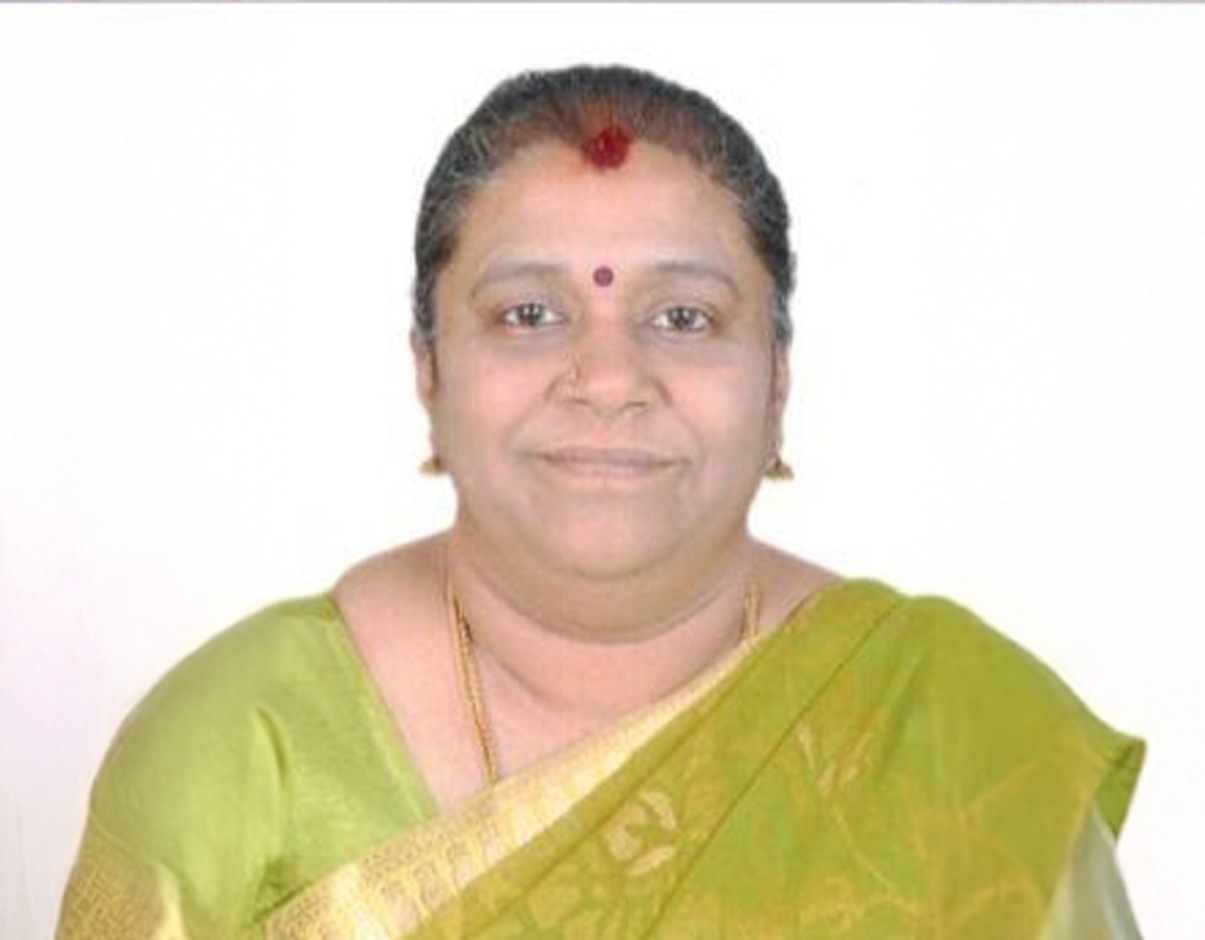
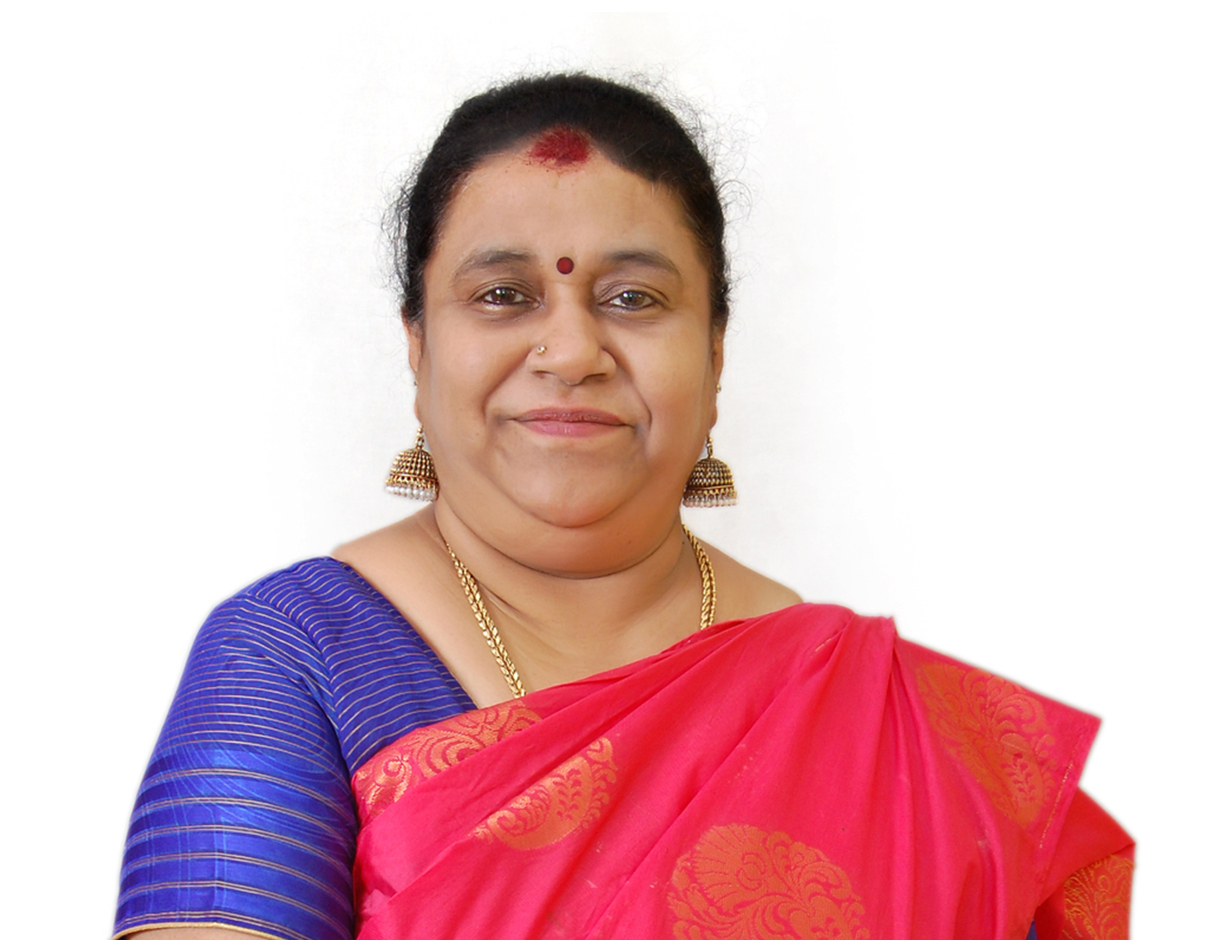
bugs changes

diff --git a/team.html b/team.html
@@ -58,7 +58,7 @@
 
 <body>
     <div id="app" class="d-flex flex-column min-vh-100">
-              <header>
+        <header>
             <!-- Top nav for desktop -->
             <div class="d-sm-block d-none">
                 <nav class="navbar topNav t_nav navbar-expand-md bg-faded justify-content-center">
@@ -116,7 +116,10 @@
                                     </a>
                                     <ul class="dropdown-menu" aria-labelledby="resourcesDropdown">
                                         <!-- Newsletter Section -->
-                                        <li><a class="dropdown-item" href="newsletter.html">Newsletter</a></li>
+                                        <li><a class="dropdown-item download-link"
+                                                href="assets/pdf/Nov-2025_Newsletter-1.pdf" target="_blank"
+                                                download="Nov-2025_Newsletter-1.pdf">Newsletter</a></li>
+                                        <li>
                                         <li>
                                             <hr class="dropdown-divider">
                                         </li>
@@ -296,21 +299,21 @@
                                 </li>
                             </ul>
                             <div class="mobile-bottom-section">
-                            <!-- Mobile Login Dropdown -->
-                            <div class="mobile-login-container">
-                                <a href="javascript:void(0)" class="mobile-login-toggle">
-                                    Login <i class="fas fa-chevron-down login-dropdown-icon"></i>
-                                </a>
-                                <div class="mobile-login-dropdown">
-                                    <a href="https://pms.harmoneywealth.in/shrdbms/userlogin.ss"
-                                        class="mobile-login-item">PMS Login</a>
-                                    <a href="https://harmoneywealth.themfbox.com/" class="mobile-login-item">MFD
-                                        Login</a>
+                                <!-- Mobile Login Dropdown -->
+                                <div class="mobile-login-container">
+                                    <a href="javascript:void(0)" class="mobile-login-toggle">
+                                        Login <i class="fas fa-chevron-down login-dropdown-icon"></i>
+                                    </a>
+                                    <div class="mobile-login-dropdown">
+                                        <a href="https://pms.harmoneywealth.in/shrdbms/userlogin.ss"
+                                            class="mobile-login-item">PMS Login</a>
+                                        <a href="https://harmoneywealth.themfbox.com/" class="mobile-login-item">MFD
+                                            Login</a>
+                                    </div>
                                 </div>
                             </div>
-                        </div>
                         </nav>
-                        
+
                     </section>
                     <div id="overlay" class="overlayy"></div>
                 </div>
@@ -326,7 +329,7 @@
                 <div class="row align-items-center">
                     <div class="col-lg-6">
                         <h1>Meet the Team</h1>
-                        <p class="hero-subtitle">Meet our People</p>
+
                         <div class="hero-content">
                             <p>M/s Harmoney FinServ India Private Limited Formerly Harmoney Wealth Advisory
                                 Services India (P) Ltd., is promoted by passionate professionals having an experience of
@@ -394,14 +397,16 @@
                                     guided by the belief that pursuing one's passion leads to a fulfilling life. A
                                     <strong>knowledgeable</strong> professional with a wide-ranging expertise, he is
                                     <strong>determined</strong> and <strong>resilient</strong> in constantly striving to
-                                    reach greater heights both professionally and personally.</p>
+                                    reach greater heights both professionally and personally.
+                                </p>
                                 <p>With a calm and composed demeanor, he exudes <strong>confidence</strong> and
                                     <strong>dedication</strong>, inspiring those around him to aspire for greatness. His
                                     commitment to clients and family is unwavering, embodying a
                                     <strong>relentless</strong> pursuit of excellence. An <strong>encouraging</strong>
                                     and <strong>supportive</strong> leader, he knows just how to uplift others and
                                     foster growth and success with his <strong>insightful</strong> and
-                                    <strong>adaptable</strong> approach.</p>
+                                    <strong>adaptable</strong> approach.
+                                </p>
                             </div>
                             <div class="member-expertise">
                                 <span class="expertise-tag">Leadership</span>
@@ -436,9 +441,8 @@
                                     <strong>affectionate</strong> determination. Her <strong>supportive</strong> and
                                     <strong>reliable</strong> nature combines with <strong>altruistic</strong> values,
                                     as she remains <strong>eager to learn</strong> and grow with each new experience.
-                                    Currently pursuing her masters in law, she exemplifies that there's no limit to age
-                                    or passion through her <strong>determined</strong> and <strong>passionate</strong>
-                                    journey.</p>
+                                    She exemplifies that there's no limit to age or passion through her
+                                    <strong>determined</strong> and <strong>passionate</strong> journey.</p>
                             </div>
                             <div class="member-expertise">
                                 <span class="expertise-tag">Compliance</span>
@@ -861,7 +865,7 @@
                                     <ul>
                                         <li><a href="privacy-policy.html">Privacy Policy</a></li>
                                         <li><a href="compliance.html">Compliance</a></li>
-                                        
+
                                     </ul>
                                 </div>
 
@@ -910,20 +914,20 @@
                                                 target="_blank"
                                                 style="display: flex; align-items: center; gap: 10px; padding: 10px 0;justify-content: space-around;">
                                                 <img src="assets/images/footer-googleplay.svg" alt="Google Play"
-                                                   style="width: 150px; height: 60px;">
+                                                    style="width: 150px; height: 60px;">
                                                 <div>
-                                                   <div style="font-size: 12px; color: #000;">GET IT ON</div>
+                                                    <div style="font-size: 12px; color: #000;">GET IT ON</div>
                                                     <div style="font-weight: bold; color: #000;">Google Play</div>
                                                 </div>
                                             </a>
                                         </li>
                                         <li>
                                             <!-- iOS/App Store -->
-                                             <a href="https://apps.apple.com/in/app/harmoney/id6751745585"
+                                            <a href="https://apps.apple.com/in/app/harmoney/id6751745585"
                                                 target="_blank"
                                                 style="display: flex; align-items: center; gap: 10px; padding: 10px 0;justify-content: space-around;">
                                                 <img src="assets/images/footer-appstore.svg" alt="App Store"
-                                                   style="width: 150px; height: 60px;">
+                                                    style="width: 150px; height: 60px;">
                                                 <div>
                                                     <div style="font-size: 12px; color: #000;">Download on the</div>
                                                     <div style="font-weight: bold; color: #000;">App Store</div>
@@ -938,14 +942,14 @@
                                     <a href="#" class="social-icon" data-tooltip="Linkedin">
                                         <i class="fab fa-linkedin-in"></i>
                                     </a>
-                                    
+
                                 </div>
 
                                 <!-- Mutual Fund Disclaimer -->
                                 <div class="mt-3"
                                     style="background: rgba(59, 130, 246, 0.1); padding: 15px; border-radius: 8px; font-size: 11px; line-height: 1.4; color: #000;">
                                     <p style="margin-bottom: 8px;">
-                                         Mutual Fund Investments are subject to market
+                                        Mutual Fund Investments are subject to market
                                         risks. Please read the scheme information and offer documents before investing.
                                         Past performance is not indicative of future results.
                                     </p>

diff --git a/what-we-do.html b/what-we-do.html
@@ -116,7 +116,10 @@
                                     </a>
                                     <ul class="dropdown-menu" aria-labelledby="resourcesDropdown">
                                         <!-- Newsletter Section -->
-                                        <li><a class="dropdown-item" href="newsletter.html">Newsletter</a></li>
+                                        <li><a class="dropdown-item download-link"
+                                                href="assets/pdf/Nov-2025_Newsletter-1.pdf" target="_blank"
+                                                download="Nov-2025_Newsletter-1.pdf">Newsletter</a></li>
+                                        <li>
                                         <li>
                                             <hr class="dropdown-divider">
                                         </li>
@@ -330,7 +333,7 @@
                         <p class="hero-description">With the variety of investment options available today, we at
                             Harmoney provide you services that meets your financial needs. Nearly every investment
                             entails special risks and given that every investment goals are unique, we at Harmoney help
-                            you find the right Strategy ( MF / Direct Equity / Real Estate / PMS) to match your needs.
+                            you find the right asset allocation Strategy ( MF / Direct Equity / Real Estate / PMS) to match your needs.
                         </p>
                     </div>
                     <div class="col-lg-6">
@@ -352,8 +355,8 @@
                         <div class="service-icon">
                             <i class="fas fa-bullseye"></i>
                         </div>
-                        <h3>Goal Formulation</h3>
-                        <p>Understand your needs and help you formulate long-term investment goals and objectives.</p>
+                        <h3>Goal Planning</h3>
+                        <p>Understand your needs and help you plan long long-term investment goals and objectives.</p>
                     </div>
 
                     <!-- Service 2 -->
@@ -362,8 +365,8 @@
                             <i class="fas fa-chart-line"></i>
                         </div>
                         <h3>Risk Assessment</h3>
-                        <p>Help you develop realistic expectations by discussing the risks and rewards of each
-                            investment.</p>
+                        <p>Help you develop realistic expectations by discussing the risks and rewards of each asset class.
+                            </p>
                     </div>
 
                     <!-- Service 3 -->
@@ -371,8 +374,8 @@
                         <div class="service-icon">
                             <i class="fas fa-puzzle-piece"></i>
                         </div>
-                        <h3>Strategy Matching</h3>
-                        <p>Match your goals and objectives with appropriate investment vehicles.</p>
+                        <h3>Goal Matching</h3>
+                        <p>Match your goals and objectives with appropriate asset allocation strategy.</p>
                     </div>
 
                     <!-- Service 4 -->
@@ -421,7 +424,7 @@
                             <h2>Staying on Course with Your Financial Journey</h2>
                             <p>One of the most valuable services we as adviser can provide is to help you "stay on
                                 course" with your investment program. But "staying on course" long term does not
-                                necessarily mean staying put. Expect our financial adviser to work with you to adjust
+                                necessarily mean staying put. Expect our financial planner to work with you to adjust
                                 your portfolio in response to any significant change in your lifestyle, priorities,
                                 assets or responsibilities.</p>
                         </div>

diff --git a/compliance.html b/compliance.html
@@ -118,7 +118,10 @@
                                     </a>
                                     <ul class="dropdown-menu" aria-labelledby="resourcesDropdown">
                                         <!-- Newsletter Section -->
-                                        <li><a class="dropdown-item" href="newsletter.html">Newsletter</a></li>
+                                        <li><a class="dropdown-item download-link"
+                                                href="assets/pdf/Nov-2025_Newsletter-1.pdf" target="_blank"
+                                                download="Nov-2025_Newsletter-1.pdf">Newsletter</a></li>
+                                        <li>
                                         <li>
                                             <hr class="dropdown-divider">
                                         </li>
@@ -516,7 +519,7 @@
                                         <div class="step-content">
                                             <h3>SEBI SCORES</h3>
                                             <p>If unsatisfied with resolution, lodge complaint on:
-                                                <a href="http://scores.gov.in" target="_blank">scores.gov.in</a>
+                                                <a href="https://scores.sebi.gov.in/scores-home" target="_blank">scores.gov.in</a>
                                             </p>
                                         </div>
                                     </div>
@@ -632,7 +635,7 @@
                                 <p class="scores-description">Find all complaints on the official Securities and
                                     Exchange Board of India website</p>
 
-                                <a href="http://scores.gov.in" target="_blank" class="scores-btn">
+                                <a href="https://scores.sebi.gov.in/scores-home" target="_blank" class="scores-btn">
                                     <svg width="22" height="22" viewBox="0 0 24 24" fill="none" stroke="currentColor"
                                         stroke-width="2">
                                         <path d="M18 13v6a2 2 0 0 1-2 2H5a2 2 0 0 1-2-2V8a2 2 0 0 1 2-2h6" />
@@ -678,7 +681,7 @@
                                         <span>SMART ODR Portal</span>
                                     </a>
 
-                                    <a href="http://scores.gov.in" target="_blank" class="quicklink">
+                                    <a href="https://scores.sebi.gov.in/scores-home" target="_blank" class="quicklink">
                                         <div class="quicklink-icon">
                                             <svg width="20" height="20" viewBox="0 0 24 24" fill="none"
                                                 stroke="currentColor" stroke-width="2">

diff --git a/our-philosophy.html b/our-philosophy.html
@@ -117,7 +117,10 @@
                                     </a>
                                     <ul class="dropdown-menu" aria-labelledby="resourcesDropdown">
                                         <!-- Newsletter Section -->
-                                        <li><a class="dropdown-item" href="newsletter.html">Newsletter</a></li>
+                                        <li><a class="dropdown-item download-link"
+                                                href="assets/pdf/Nov-2025_Newsletter-1.pdf" target="_blank"
+                                                download="Nov-2025_Newsletter-1.pdf">Newsletter</a></li>
+                                        <li>
                                         <li>
                                             <hr class="dropdown-divider">
                                         </li>
@@ -425,7 +428,7 @@
                         <div class="value-icon">
                             <i class="fas fa-search"></i>
                         </div>
-                        <h3 class="value-title">Research Investment</h3>
+                        <h3 class="value-title">Research and Development</h3>
                         <p class="value-description">Investment in research and development is vital to staying ahead in
                             the dynamic financial landscape.</p>
                     </div>

diff --git a/usefil-links.html b/usefil-links.html
@@ -321,7 +321,10 @@
                                     </a>
                                     <ul class="dropdown-menu" aria-labelledby="resourcesDropdown">
                                         <!-- Newsletter Section -->
-                                        <li><a class="dropdown-item" href="newsletter.html">Newsletter</a></li>
+                                        <li><a class="dropdown-item download-link"
+                                                href="assets/pdf/Nov-2025_Newsletter-1.pdf" target="_blank"
+                                                download="Nov-2025_Newsletter-1.pdf">Newsletter</a></li>
+                                        <li>
                                         <li>
                                             <hr class="dropdown-divider">
                                         </li>
@@ -553,7 +556,7 @@
                         </a>
                     </li>
                     <li>
-                        <a href="https://www.tin-nsdl.com/" target="_blank" class="link-item">
+                        <a href="https://onlineservices.proteantech.in/paam/endUserRegisterContact.html" target="_blank" class="link-item">
                             <div class="link-icon">
                                 <i class="fas fa-address-card"></i>
                             </div>

diff --git a/aboutus.html b/aboutus.html
@@ -307,7 +307,10 @@
                                     </a>
                                     <ul class="dropdown-menu" aria-labelledby="resourcesDropdown">
                                         <!-- Newsletter Section -->
-                                        <li><a class="dropdown-item" href="newsletter.html">Newsletter</a></li>
+                                        <li><a class="dropdown-item download-link"
+                                                href="assets/pdf/Nov-2025_Newsletter-1.pdf" target="_blank"
+                                                download="Nov-2025_Newsletter-1.pdf">Newsletter</a></li>
+                                        <li>
                                         <li>
                                             <hr class="dropdown-divider">
                                         </li>

diff --git a/awards.html b/awards.html
@@ -120,7 +120,10 @@
                                     </a>
                                     <ul class="dropdown-menu" aria-labelledby="resourcesDropdown">
                                         <!-- Newsletter Section -->
-                                        <li><a class="dropdown-item" href="newsletter.html">Newsletter</a></li>
+                                        <li><a class="dropdown-item download-link"
+                                                href="assets/pdf/Nov-2025_Newsletter-1.pdf" target="_blank"
+                                                download="Nov-2025_Newsletter-1.pdf">Newsletter</a></li>
+                                        <li>
                                         <li>
                                             <hr class="dropdown-divider">
                                         </li>

diff --git a/careers.html b/careers.html
@@ -116,7 +116,10 @@
                                     </a>
                                     <ul class="dropdown-menu" aria-labelledby="resourcesDropdown">
                                         <!-- Newsletter Section -->
-                                        <li><a class="dropdown-item" href="newsletter.html">Newsletter</a></li>
+                                        <li><a class="dropdown-item download-link"
+                                                href="assets/pdf/Nov-2025_Newsletter-1.pdf" target="_blank"
+                                                download="Nov-2025_Newsletter-1.pdf">Newsletter</a></li>
+                                        <li>
                                         <li>
                                             <hr class="dropdown-divider">
                                         </li>

diff --git a/commission-disclosures.html b/commission-disclosures.html
@@ -121,7 +121,10 @@
                                     </a>
                                     <ul class="dropdown-menu" aria-labelledby="resourcesDropdown">
                                         <!-- Newsletter Section -->
-                                        <li><a class="dropdown-item" href="newsletter.html">Newsletter</a></li>
+                                        <li><a class="dropdown-item download-link"
+                                                href="assets/pdf/Nov-2025_Newsletter-1.pdf" target="_blank"
+                                                download="Nov-2025_Newsletter-1.pdf">Newsletter</a></li>
+                                        <li>
                                         <li>
                                             <hr class="dropdown-divider">
                                         </li>

diff --git a/newsletter.html b/newsletter.html
@@ -120,7 +120,10 @@
                                     </a>
                                     <ul class="dropdown-menu" aria-labelledby="resourcesDropdown">
                                         <!-- Newsletter Section -->
-                                        <li><a class="dropdown-item" href="newsletter.html">Newsletter</a></li>
+                                        <li><a class="dropdown-item download-link"
+                                                href="assets/pdf/Nov-2025_Newsletter-1.pdf" target="_blank"
+                                                download="Nov-2025_Newsletter-1.pdf">Newsletter</a></li>
+                                        <li>
                                         <li>
                                             <hr class="dropdown-divider">
                                         </li>

diff --git a/nri-corner.html b/nri-corner.html
@@ -116,7 +116,10 @@
                                     </a>
                                     <ul class="dropdown-menu" aria-labelledby="resourcesDropdown">
                                         <!-- Newsletter Section -->
-                                        <li><a class="dropdown-item" href="newsletter.html">Newsletter</a></li>
+                                        <li><a class="dropdown-item download-link"
+                                                href="assets/pdf/Nov-2025_Newsletter-1.pdf" target="_blank"
+                                                download="Nov-2025_Newsletter-1.pdf">Newsletter</a></li>
+                                        <li>
                                         <li>
                                             <hr class="dropdown-divider">
                                         </li>

diff --git a/privacy-policy.html b/privacy-policy.html
@@ -116,7 +116,10 @@
                                     </a>
                                     <ul class="dropdown-menu" aria-labelledby="resourcesDropdown">
                                         <!-- Newsletter Section -->
-                                        <li><a class="dropdown-item" href="newsletter.html">Newsletter</a></li>
+                                        <li><a class="dropdown-item download-link"
+                                                href="assets/pdf/Nov-2025_Newsletter-1.pdf" target="_blank"
+                                                download="Nov-2025_Newsletter-1.pdf">Newsletter</a></li>
+                                        <li>
                                         <li>
                                             <hr class="dropdown-divider">
                                         </li>
